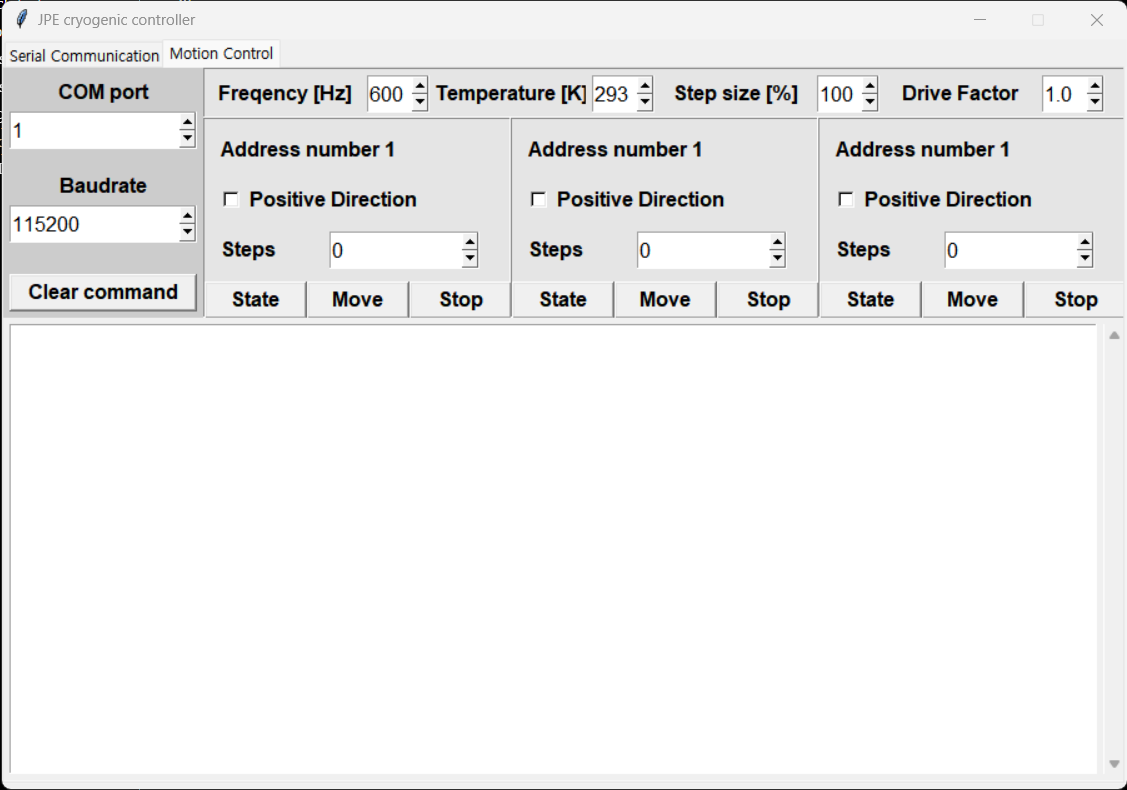
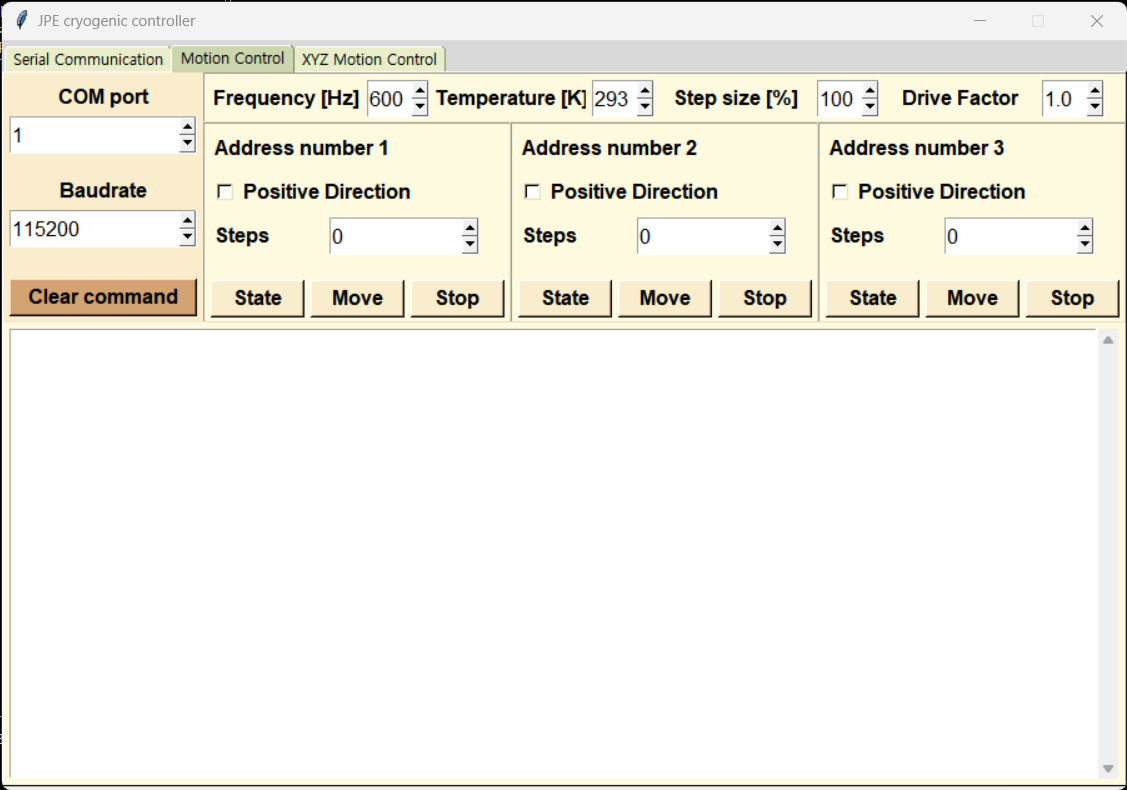
이미지 변경

diff --git a/JPE cryogenic controller.py b/JPE cryogenic controller.py
@@ -22,6 +22,22 @@ window.title("JPE cryogenic controller")
 window.geometry("900x600+100+100")
 window.resizable(False, False)
 
+teg_1 = "#E9EDC9"
+teg_2 = "#CCD5AE"
+bg_color_1 = "#FAEDCD"
+bg_color_2 = "#FEFAE0"
+button_color = "#D4A373"
+button_color_2 ="#FAEDCD"
+style = ttk.Style()
+style.theme_create( "dummy", parent="alt", settings={
+        "TNotebook": {"configure": {"tabmargins": [2, 5, 2, 0] } },
+        "TNotebook.Tab": {
+            "configure": {"padding": [5, 1], "background": teg_1 },
+            "map":       {"background": [("selected", teg_2)],
+                          "expand": [("selected", [1, 1, 1, 0])] } } } )
+
+style.theme_use("dummy")
+
 notebook = ttk.Notebook(window, width=900, height= 570)
 notebook.pack()
 
@@ -144,16 +160,16 @@ def command_stop(address):
 ###################################-- Serial Communication Frame 구성 --##########################################
 
 # 설정창 구성 및 기능
-set_up_frame = tk.Frame(serial_com_frame, width= 240, height=600, relief= "solid", bg= "gray80")
+set_up_frame = tk.Frame(serial_com_frame, width= 240, height=600, relief= "solid", bg= bg_color_1)
 set_up_frame.pack(side = 'left')
 
 ## 설정 프레임 구성
-label_port_1 = tk.Label(master = set_up_frame, text="COM port", font = Bold_font, bg= "gray80")
+label_port_1 = tk.Label(master = set_up_frame, text="COM port", font = Bold_font, bg= bg_color_1)
 input_port_1 = tk.Spinbox(master = set_up_frame, from_= 0, to = 100, textvariable= optCom, font=Light_font)
-label_baudrate_1 = tk.Label(master = set_up_frame, text = "Baudrate", font = Bold_font, bg= "gray80")
+label_baudrate_1 = tk.Label(master = set_up_frame, text = "Baudrate", font = Bold_font, bg= bg_color_1)
 input_baudrate_1 = tk.Spinbox(master = set_up_frame, from_= 9600, to = 1000000, textvariable= optBr, font= Light_font)
 
-butTxtRespClear_1 = tk.Button( master = set_up_frame, text="Clear command history", command = txtResp_clear_click_1, font = Bold_font)
+butTxtRespClear_1 = tk.Button( master = set_up_frame, text="Clear command history", command = txtResp_clear_click_1, font = Bold_font, bg=button_color)
 
 label_port_1.place(x= 10, y = 10, width= 100, height=30)
 input_port_1.place( x= 130, y = 10, width=100, height=30)
@@ -163,13 +179,13 @@ input_baudrate_1.place(x = 130, y=50, width=100, height=30)
 butTxtRespClear_1.place(x = 10, y= 535, width=220, height=30)
 
 # 입력 프레임 구성 및 기능
-command_fram_1 = tk.Frame(serial_com_frame, width= 660, height= 600, relief= "solid" )
+command_fram_1 = tk.Frame(serial_com_frame, width= 660, height= 600, relief= "solid", bg= bg_color_2 )
 command_fram_1.pack(side="right") 
         
 ## 입력 프레임 구성
 command_entry = tk.Entry(command_fram_1, font=Light_font)
 command_entry.bind("<Return>", enter)
-enter_button = tk.Button(command_fram_1, text = "Enter" ,overrelief="solid", repeatdelay=1000, repeatinterval=1000, font = Bold_font)
+enter_button = tk.Button(command_fram_1, text = "Enter" ,overrelief="solid", repeatdelay=1000, repeatinterval=1000, font = Bold_font, bg=button_color_2)
 enter_button.bind("<Button-1>", enter)
 scroll = tk.Scrollbar(command_fram_1, orient='vertical')
 respond_text = tk.Text(command_fram_1, yscrollcommand=scroll.set, font=Light_font)
@@ -185,15 +201,15 @@ scroll.place(x = 630, y = 50, height= 515)
 ###################################### -- Motion control Frame 구성 --#######################################
 
 # port 설정 프레임 구성
-port_frame_1 = tk.Frame(motion_con_frame, width= 160, height=200, relief= "groove", bg= "gray80")
+port_frame_1 = tk.Frame(motion_con_frame, width= 160, height=200, relief= "groove", bg= bg_color_1)
 port_frame_1.place(x=0, y=0) 
 
-label_port_2 = tk.Label(master = port_frame_1, text="COM port", font = Bold_font, bg= "gray80")
+label_port_2 = tk.Label(master = port_frame_1, text="COM port", font = Bold_font, bg= bg_color_1)
 input_port_2 = tk.Spinbox(master = port_frame_1, from_= 0, to = 100, textvariable=optCom, font=Light_font)
-label_baudrate_2 = tk.Label(master = port_frame_1, text = "Baudrate", font = Bold_font, bg= "gray80")
+label_baudrate_2 = tk.Label(master = port_frame_1, text = "Baudrate", font = Bold_font, bg= bg_color_1)
 input_baudrate_2 = tk.Spinbox(master = port_frame_1, from_= 9600, to = 1000000, textvariable=optBr, font= Light_font)
 
-butTxtRespClear_2 = tk.Button( master = port_frame_1, text="Clear command", command = txtResp_clear_click_2, font = Bold_font)
+butTxtRespClear_2 = tk.Button( master = port_frame_1, text="Clear command", command = txtResp_clear_click_2, font = Bold_font, bg=button_color)
 
 label_port_2.place(x=5, y= 5, width= 150, height=30)
 input_port_2.place(x = 5, y = 35, width= 150, height=30)
@@ -202,16 +218,16 @@ input_baudrate_2.place(x=5, y= 110, width= 150, height=30)
 butTxtRespClear_2.place(x= 5, y = 165, width=150, height= 30)
 
 # 환경설정 프레임 구성
-config_frame_1 = tk.Frame(motion_con_frame, width=740, height=40, relief="groove", bg= "gray90", bd=1)
+config_frame_1 = tk.Frame(motion_con_frame, width=740, height=40, relief="groove", bg= bg_color_2, bd=1)
 config_frame_1.place(x=160, y=0)
 
-label_freq_1 = tk.Label(master=config_frame_1, text ="Frequency [Hz]", font= Bold_font, bg= "gray90")
+label_freq_1 = tk.Label(master=config_frame_1, text ="Frequency [Hz]", font= Bold_font, bg= bg_color_2)
 input_freq_1 = tk.Spinbox(master = config_frame_1, from_ = 1, to = 600, textvariable=optFreq, font = Light_font)
-label_temp_1 = tk.Label(master = config_frame_1, text = "Temperature [K]", font= Bold_font, bg= "gray90")
+label_temp_1 = tk.Label(master = config_frame_1, text = "Temperature [K]", font= Bold_font, bg= bg_color_2)
 input_temp_1 = tk.Spinbox(master= config_frame_1,from_ = 0, to = 300, textvariable=optTemp, font = Light_font )
-label_stepSize_1 = tk.Label(master=config_frame_1, text ="Step size [%]", font= Bold_font, bg= "gray90")
+label_stepSize_1 = tk.Label(master=config_frame_1, text ="Step size [%]", font= Bold_font, bg= bg_color_2)
 input_stepSize_1 = tk.Spinbox(master = config_frame_1, from_ = 1, to = 100, textvariable=optRss, font = Light_font)
-label_DriveFact_1 = tk.Label(master = config_frame_1, text= "Drive Factor", font = Bold_font,  bg= "gray90")
+label_DriveFact_1 = tk.Label(master = config_frame_1, text= "Drive Factor", font = Bold_font,  bg= bg_color_2)
 input_DriveFact_1 = tk.Spinbox(master = config_frame_1, from_ = 0.1, to = 3.0, increment = 0.1,textvariable= optDf, font = Light_font)
 
 label_freq_1.place(x=5, y=5, width=120, height= 30)
@@ -232,27 +248,27 @@ class motion_frame():
         self.optSteps = optSteps
 
     def making_address_frame(self, address):
-        Address_frame = tk.Frame(motion_con_frame, width = self.width, height=self.height, relief="groove", bg= "gray90", bd=1)
+        Address_frame = tk.Frame(motion_con_frame, width = self.width, height=self.height, relief="groove", bg= bg_color_2, bd=1)
         Address_frame.place(x = 160 + self.width*(address-1) , y = 40)
 
-        label_addr = tk.Label(master=Address_frame, text ="Address number " + str(address), font= Bold_font, bg= "gray90")
-        check_dir = tk.Checkbutton(master=Address_frame, text= "Positive Direction", variable= self.optDir,font = Bold_font, bg= "gray90")
-        label_steps = tk.Label(master=Address_frame, text ="Steps", font= Bold_font, bg= "gray90")
+        label_addr = tk.Label(master=Address_frame, text ="Address number " + str(address), font= Bold_font, bg= bg_color_2)
+        check_dir = tk.Checkbutton(master=Address_frame, text= "Positive Direction", variable= self.optDir,font = Bold_font, bg= bg_color_2)
+        label_steps = tk.Label(master=Address_frame, text ="Steps", font= Bold_font, bg= bg_color_2)
         input_steps = tk.Spinbox(master = Address_frame, from_ = 0, to = 50000, textvariable=self.optSteps, font = Light_font)
         button_GFS = tk.Button(master = Address_frame, text= "State",overrelief="solid", repeatdelay=1000, repeatinterval=1000, font = Bold_font, \
-                               command=partial(Command_state, address))
+                               command=partial(Command_state, address), bg=button_color_2)
         button_mov = tk.Button(master = Address_frame, text= "Move",overrelief="solid", repeatdelay=1000, repeatinterval=1000, font = Bold_font, \
-                               command=partial(Command_move, address))
+                               command=partial(Command_move, address), bg=button_color_2)
         button_stop = tk.Button(master = Address_frame, text= "Stop",overrelief="solid", repeatdelay=1000, repeatinterval=1000, font = Bold_font, \
-                                command = partial(command_stop, address))
+                                command = partial(command_stop, address), bg=button_color_2)
 
-        label_addr.place(x = 10 , y = 10, height= 30)
-        check_dir.place(x = 10, y = 50 )
-        label_steps.place(x = 10, y = 90, height= 30)
-        input_steps.place(x = 100, y = 90, width = 120, height= 30)
-        button_GFS.place(x = 0, y = 130, width = 82, height = 30)
-        button_mov.place(x = 82, y = 130, width= 82, height= 30)
-        button_stop.place(x = 164, y = 130, width= 82, height= 30)
+        label_addr.place(x = 5 , y = 5, height= 30)
+        check_dir.place(x = 5, y = 40 )
+        label_steps.place(x = 5, y = 75, height= 30)
+        input_steps.place(x = 100, y = 75, width = 120, height= 30)
+        button_GFS.place(x = 5, y = 125, width = 75, height = 30)
+        button_mov.place(x = 85, y = 125, width= 75, height= 30)
+        button_stop.place(x = 165, y = 125, width= 75, height= 30)
 
 address_frame_1 = motion_frame(optDir_1,  optSteps_1)
 address_frame_2 = motion_frame(optDir_2, optSteps_2)
@@ -263,7 +279,7 @@ address_frame_2.making_address_frame(2)
 address_frame_3.making_address_frame(3)
 
 # 입력 프레임 구성 및 기능
-command_fram_2 = tk.Frame(motion_con_frame, width= 900, height= 600, relief= "solid" )
+command_fram_2 = tk.Frame(motion_con_frame, width= 900, height= 600, relief= "solid" , bg=bg_color_2)
 command_fram_2.place(x = 0, y = 200)
 
 ## 입력 프레임 구성
@@ -279,14 +295,14 @@ respond_text_2.place(x= 5, y = 5, width = 870, height= 360)
 ###################################-- XYZ motion control Frame 구성 --##########################################
 # port 프레임 구성
 
-port_frame_2 = tk.Frame(xyz_motion_frame, width= 225, height=200, relief= "solid", bg= "gray80")
+port_frame_2 = tk.Frame(xyz_motion_frame, width= 225, height=200, relief= "solid", bg= bg_color_1)
 port_frame_2.place(x=0, y = 0)
 
-label_port_3 = tk.Label(master = port_frame_2, text="COM port", font = Bold_font, bg= "gray80")
+label_port_3 = tk.Label(master = port_frame_2, text="COM port", font = Bold_font, bg= bg_color_1)
 input_port_3 = tk.Spinbox(master = port_frame_2, from_= 0, to = 100, textvariable = optCom, font=Light_font)
-label_baudrate_3 = tk.Label(master = port_frame_2, text = "Baudrate", font = Bold_font, bg= "gray80")
+label_baudrate_3 = tk.Label(master = port_frame_2, text = "Baudrate", font = Bold_font, bg= bg_color_1)
 input_baudrate_3 = tk.Spinbox(master = port_frame_2, from_= 9600, to = 1000000, textvariable = optBr, font= Light_font)
-butTxtRespClear_3 = tk.Button( master = port_frame_2, text="Clear command history", font = Bold_font)
+butTxtRespClear_3 = tk.Button( master = port_frame_2, text="Clear command history", font = Bold_font, bg=button_color)
 
 label_port_3.place(x=15, y= 16, width= 90, height=30)
 input_port_3.place(x = 120, y = 16, width= 90, height=30)
@@ -295,16 +311,16 @@ input_baudrate_3.place(x= 120, y= 62, width= 90, height=30)
 butTxtRespClear_3.place(x = 10, y= 160, width=205, height=30)
 
 # config 프레임 구성
-config_frame_2 =tk.Frame(xyz_motion_frame, width=225, height=200, relief="groove", bg= "gray90", bd=1)
+config_frame_2 =tk.Frame(xyz_motion_frame, width=225, height=200, relief="groove", bg= bg_color_2, bd=1)
 config_frame_2.place(x=225, y=0)
 
-label_freq_2 = tk.Label(master=config_frame_2, text ="Frequency [Hz]", font= Bold_font, bg= "gray90")
+label_freq_2 = tk.Label(master=config_frame_2, text ="Frequency [Hz]", font= Bold_font, bg= bg_color_2)
 input_freq_2 = tk.Spinbox(master = config_frame_2, from_ = 1, to = 600, textvariable=optFreq, font = Light_font)
-label_temp_2 = tk.Label(master = config_frame_2, text = "Temperature [K]", font= Bold_font, bg= "gray90")
+label_temp_2 = tk.Label(master = config_frame_2, text = "Temperature [K]", font= Bold_font, bg= bg_color_2)
 input_temp_2 = tk.Spinbox(master= config_frame_2,from_ = 0, to = 300, textvariable=optTemp, font = Light_font )
-label_stepSize_2 = tk.Label(master=config_frame_2, text ="Step size [%]", font= Bold_font, bg= "gray90")
+label_stepSize_2 = tk.Label(master=config_frame_2, text ="Step size [%]", font= Bold_font, bg= bg_color_2)
 input_stepSize_2 = tk.Spinbox(master = config_frame_2, from_ = 1, to = 100, textvariable=optRss, font = Light_font)
-label_DriveFact_2 = tk.Label(master = config_frame_2, text= "Drive Factor", font = Bold_font,  bg= "gray90")
+label_DriveFact_2 = tk.Label(master = config_frame_2, text= "Drive Factor", font = Bold_font,  bg= bg_color_2)
 input_DriveFact_2 = tk.Spinbox(master = config_frame_2, from_ = 0.1, to = 3.0, increment = 0.1,textvariable= optDf, font = Light_font)
 
 label_freq_2.place(x= 0, y=16, width=140, height= 30)
@@ -319,14 +335,14 @@ input_DriveFact_2.place(x = 145, y = 154, width= 70, height= 30)
 
 
 # xyz steps 프레임 구성
-xyz_steps_frame = tk.Frame(xyz_motion_frame, width=450, height=200, relief="groove", bg= "gray90", bd=1)
+xyz_steps_frame = tk.Frame(xyz_motion_frame, width=450, height=200, relief="groove", bg= bg_color_2, bd=1)
 xyz_steps_frame.place(x=450, y=0)
 
-label_x_steps = tk.Label(master=xyz_steps_frame, text = "X Steps",  font= Bold_font, bg= "gray90")
+label_x_steps = tk.Label(master=xyz_steps_frame, text = "X Steps",  font= Bold_font, bg= bg_color_2)
 input_x_steps = tk.Entry(master = xyz_steps_frame, textvariable=optXstep, font = Light_font)
-label_y_steps = tk.Label(master=xyz_steps_frame, text = "Y Steps",  font= Bold_font, bg= "gray90")
+label_y_steps = tk.Label(master=xyz_steps_frame, text = "Y Steps",  font= Bold_font, bg= bg_color_2)
 input_y_steps = tk.Entry(master = xyz_steps_frame, textvariable=optYstep, font = Light_font)
-label_z_steps = tk.Label(master=xyz_steps_frame, text = "Z Steps",  font= Bold_font, bg= "gray90")
+label_z_steps = tk.Label(master=xyz_steps_frame, text = "Z Steps",  font= Bold_font, bg= bg_color_2)
 input_z_steps = tk.Entry(master = xyz_steps_frame, textvariable=optZstep, font = Light_font)
 
 label_x_steps.place(x = 10, y = 16, width = 80, height=30)
@@ -339,9 +355,9 @@ input_z_steps .place(x = 100, y = 108, width = 110, height=30)
 sepperation = ttk.Separator(master = xyz_steps_frame, orient= "vertical")
 sepperation.place(x = 225, y = 5, height= 140)
 
-label_Radius = tk.Label(master=xyz_steps_frame, text = "Radius",  font= Bold_font, bg= "gray90")
+label_Radius = tk.Label(master=xyz_steps_frame, text = "Radius",  font= Bold_font, bg= bg_color_2)
 input_Radius = tk.Entry(master = xyz_steps_frame, textvariable=optRd, font = Light_font)
-label_Height = tk.Label(master=xyz_steps_frame, text = "Height",  font= Bold_font, bg= "gray90")
+label_Height = tk.Label(master=xyz_steps_frame, text = "Height",  font= Bold_font, bg= bg_color_2)
 input_Height = tk.Entry(master = xyz_steps_frame, textvariable=optRd, font = Light_font)
 
 label_Radius.place(x = 235, y = 16, width = 80, height=30)
@@ -349,15 +365,15 @@ input_Radius.place(x =  325, y = 16, width = 110, height=30)
 label_Height.place(x = 235, y = 62, width = 80, height=30)
 input_Height.place(x =  325, y = 62, width = 110, height=30)
 
-button_mov = tk.Button(master = xyz_steps_frame, text= "Move",overrelief="solid", repeatdelay=1000, repeatinterval=1000, font = Bold_font)
-button_stop = tk.Button(master =xyz_steps_frame, text= "Stop",overrelief="solid", repeatdelay=1000, repeatinterval=1000, font = Bold_font)
+button_mov = tk.Button(master = xyz_steps_frame, text= "Move",overrelief="solid", repeatdelay=1000, repeatinterval=1000, font = Bold_font, bg=button_color_2)
+button_stop = tk.Button(master =xyz_steps_frame, text= "Stop",overrelief="solid", repeatdelay=1000, repeatinterval=1000, font = Bold_font, bg=button_color_2)
 
 button_mov.place(x = 10, y = 160, width= 205, height=30)
 button_stop.place(x = 235, y = 160, width= 205, height=30)
 
 
 # command 프레임 구성
-command_fram_3 = tk.Frame(xyz_motion_frame, width= 900, height=400, relief= "solid")
+command_fram_3 = tk.Frame(xyz_motion_frame, width= 900, height=400, relief= "solid", bg=bg_color_2)
 command_fram_3.place(x=0, y=200)
 
 scroll_3 = tk.Scrollbar(command_fram_3, orient='vertical')
